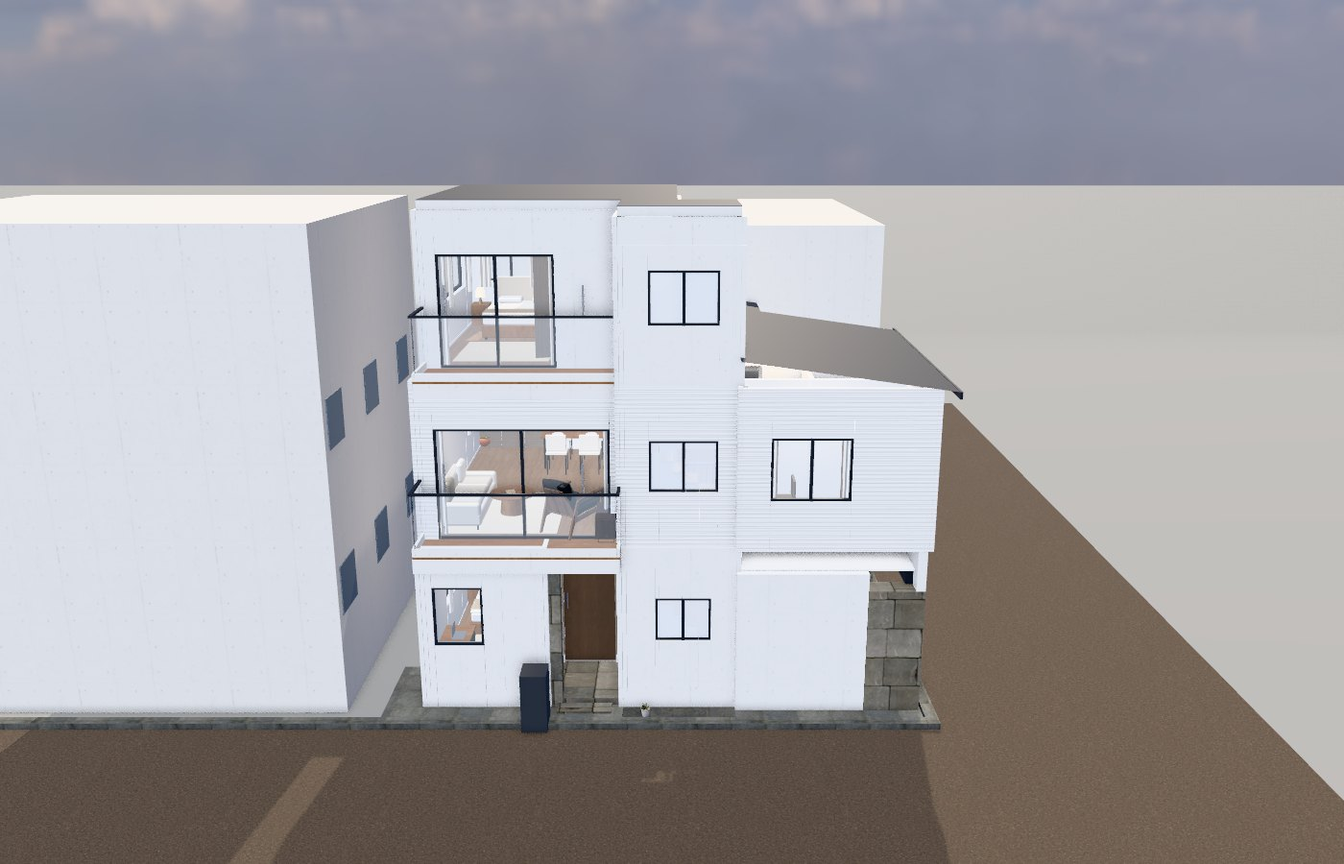
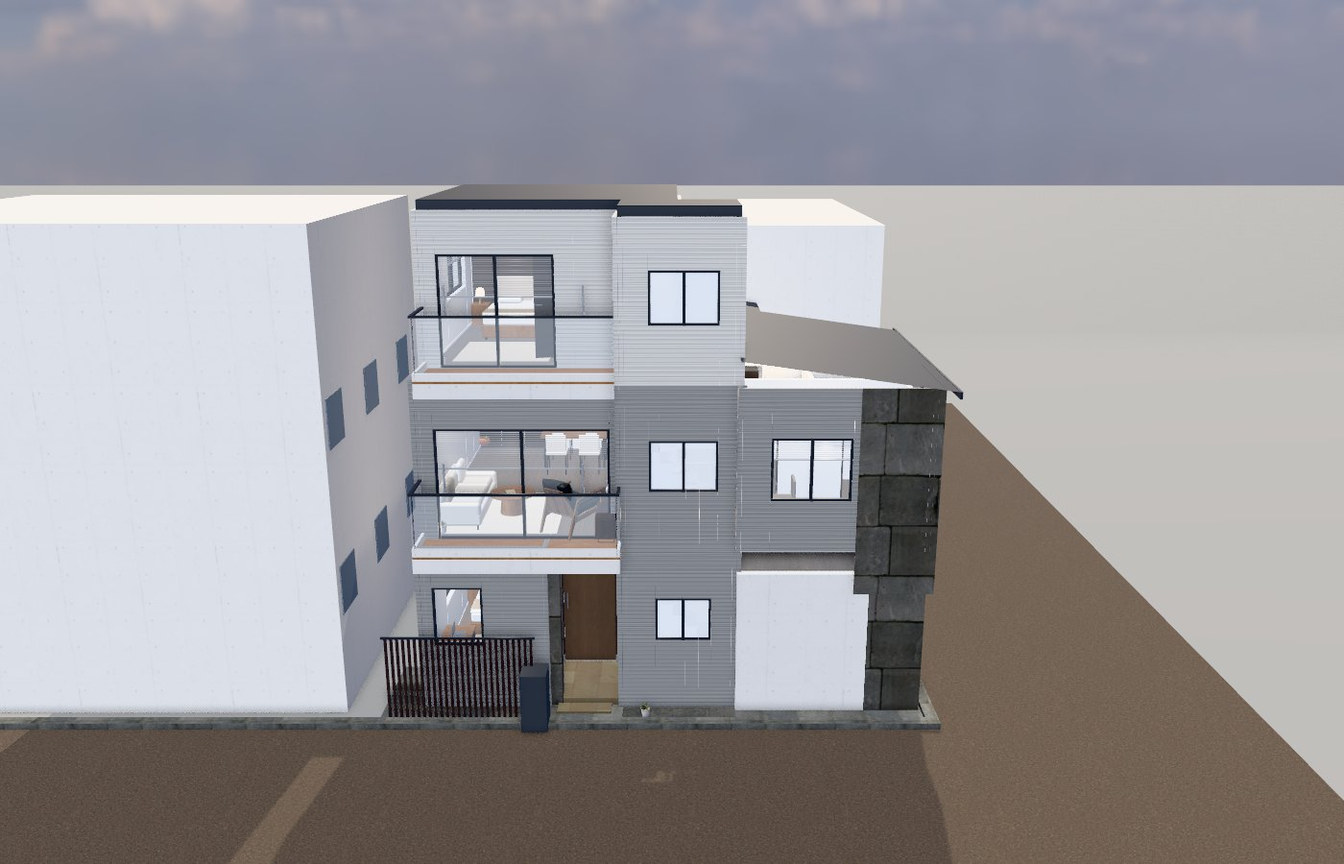
TYPE06: apply the model-home finishes
Exterior: mid-grey siding on 1F/2F, light grey on 3F, dark stone-tile
corner, timber-look louvre fences, dark roofs and garage soffit.
Interior: grey oak floor, dark wood doors and stair treads, dark kitchen
with black stone tops and dark tile backsplash, stone/relief/wood accent
walls, cove lighting in the LDK and master bedroom, brass globe pendant,
venetian blinds, dark two-bowl vanity with LED mirror, black bathtub.
TYPE06 keeps its own materials.js so TYPE02 is unchanged.

Claude-Session: https://claude.ai/code/session_013hXjAhjmHm2sScPaJVFegz

Changed region(s): [[0.2764, 0.2178, 0.7064, 0.84]]

diff --git a/type06/src/materials.js b/type06/src/materials.js
@@ -1,0 +1,126 @@
+// Material library. Geometry carries UVs in metres (see geo.js), so every
+// texture repeat equals 1 / real-world size of the scanned sample.
+import * as THREE from 'three';
+
+const LIB = 'assets/lib/';
+let manifest = null;
+const loader = new THREE.TextureLoader();
+const cache = new Map();
+let anisotropy = 4;
+let onProgress = () => {};
+let pending = 0, done = 0;
+
+export async function loadManifest() {
+  try {
+    const r = await fetch(LIB + 'manifest.json', { cache: 'no-cache' });
+    if (r.ok) manifest = await r.json();
+  } catch { manifest = null; }
+  return manifest;
+}
+export const getManifest = () => manifest;
+export function setAnisotropy(a) { anisotropy = a; }
+export function trackProgress(fn) { onProgress = fn; }
+
+function tex(id, map, srgb) {
+  const entry = manifest?.textures?.[id];
+  const file = entry?.maps?.[map]?.file;
+  if (!file) return null;
+  const key = file;
+  if (cache.has(key)) return cache.get(key);
+  pending++; onProgress(done, pending);
+  const t = loader.load(LIB + file, () => { done++; onProgress(done, pending); }, undefined, () => { done++; onProgress(done, pending); });
+  t.wrapS = t.wrapT = THREE.RepeatWrapping;
+  t.anisotropy = anisotropy;
+  t.colorSpace = srgb ? THREE.SRGBColorSpace : THREE.NoColorSpace;
+  const size = entry.size || [2, 2];
+  t.repeat.set(1 / size[0], 1 / size[1]);
+  cache.set(key, t);
+  return t;
+}
+
+function textured(id, { color = 0xffffff, diff = true, normalScale = 1, roughness = 1, metalness = 0, envMapIntensity = 1, rot = 0, scale = 1, ...rest } = {}) {
+  const m = new THREE.MeshStandardMaterial({ color, roughness, metalness, envMapIntensity, ...rest });
+  const d = diff ? tex(id, 'diff', true) : null;
+  const n = tex(id, 'nor', false);
+  const a = tex(id, 'arm', false);
+  const adjust = t => { if (!t) return t; if (rot || scale !== 1) { t = t.clone(); t.rotation = rot; t.repeat.multiplyScalar(1 / scale); t.needsUpdate = true; } return t; };
+  if (d) m.map = adjust(d);
+  if (n) { m.normalMap = adjust(n); m.normalScale.set(normalScale, normalScale); }
+  if (a) { const aa = adjust(a); m.roughnessMap = aa; m.aoMap = aa; m.aoMapIntensity = 0.6; }
+  m.name = id;
+  return m;
+}
+
+const plain = (color, roughness = 0.6, metalness = 0, extra = {}) => new THREE.MeshStandardMaterial({ color, roughness, metalness, ...extra });
+
+let M = null;
+export function materials() {
+  if (M) return M;
+  M = {
+    floorWood: textured('grey_oak_veneer_02', { color: 0xd9d6d1, roughness: 0.6, normalScale: 0.5, scale: 1.6 }), // grey oak wide planks
+    wall: textured('beige_wall_001', { diff: false, color: 0xecebe7, roughness: 1, normalScale: 0.35, scale: 0.6 }),
+    ceiling: textured('beige_wall_001', { diff: false, color: 0xf5f3ef, roughness: 1, normalScale: 0.25 }),
+    tileGenkan: textured('marble_01', { color: 0xaeafb0, roughness: 0.28, normalScale: 0.25, scale: 1.3 }), // large grey marble-look tile
+    tileBath: textured('anti_skid_tiles', { color: 0xe6e4e0, normalScale: 0.6, scale: 0.5 }),
+    bathPanel: textured('marble_01', { color: 0xa9a6a2, roughness: 0.35, normalScale: 0.2, scale: 1.4 }), // grey stone panel
+    kitchenPanel: textured('long_white_tiles', { color: 0xe9e8e5, roughness: 0.5, normalScale: 0.3, scale: 0.7 }),
+    cushionFloor: textured('marble_01', { color: 0xe9e6e1, roughness: 0.55, normalScale: 0.2, scale: 1.4 }),
+    marble: textured('marble_01', { roughness: 0.35, normalScale: 0.3 }),
+    counterDark: textured('marble_01', { color: 0x2a2b2d, roughness: 0.22, normalScale: 0.15, scale: 0.8 }), // black stone
+    oak: textured('oak_veneer_01', { color: 0xead9c6, roughness: 0.75, normalScale: 0.5 }),
+    walnut: textured('american_walnut_veneer', { roughness: 0.7, normalScale: 0.5 }),
+    door: textured('american_walnut_veneer', { color: 0x8f7764, roughness: 0.55, normalScale: 0.4, rot: Math.PI / 2 }), // dark wood doors
+    doorV: textured('american_walnut_veneer', { color: 0x8f7764, roughness: 0.55, normalScale: 0.4 }),
+    entryDoor: textured('american_walnut_veneer', { color: 0xc8a888, roughness: 0.6, normalScale: 0.6, rot: Math.PI / 2 }),
+    fabric: textured('denim_fabric_05', { diff: false, color: 0xd9d3c9, roughness: 1, normalScale: 0.7, scale: 1.6 }),
+    fabricDark: textured('denim_fabric_05', { diff: false, color: 0x8d877d, roughness: 1, normalScale: 0.7, scale: 1.6 }),
+    bedding: textured('cotton_jersey', { diff: false, color: 0xf3f1ec, roughness: 1, normalScale: 0.5, scale: 2 }),
+    beddingAccent: textured('cotton_jersey', { diff: false, color: 0xb9ab97, roughness: 1, normalScale: 0.5, scale: 2 }),
+    leather: textured('leather_white', { diff: false, color: 0xe9e4dc, roughness: 0.55, normalScale: 0.5 }),
+    rug: textured('knitted_fleece', { diff: false, color: 0xd8d0c3, roughness: 1, normalScale: 1.0, scale: 2 }),
+    extWhite: textured('concrete_wall_008', { diff: false, color: 0xd6d4cf, roughness: 0.95, normalScale: 0.5 }),
+    extLight: textured('painted_metal_shutter', { diff: false, color: 0xcac7c1, roughness: 0.7, normalScale: 0.5, scale: 1.2 }), // light grey siding (3F)
+    extStone: textured('large_grey_tiles', { color: 0xa3a5a7, normalScale: 1.2, scale: 0.9 }), // dark stone-tile accent
+    extSiding: textured('painted_metal_shutter', { diff: false, color: 0x8e8d8a, roughness: 0.7, normalScale: 0.6, scale: 1.2 }), // mid grey siding
+    paving: textured('large_floor_tiles_02', { color: 0xdedbd5, normalScale: 0.7, scale: 0.6 }),
+    asphalt: textured('asphalt_floor', { color: 0x9a9894, normalScale: 0.8 }),
+    // untextured
+    white: plain(0xf4f3f0, 0.5),
+    whiteGloss: plain(0xf7f7f5, 0.18),
+    porcelain: plain(0xfbfbfa, 0.12, 0, { envMapIntensity: 1.2 }),
+    greige: plain(0xd9d3ca, 0.6),
+    darkGrey: plain(0x3b3d40, 0.45),
+    kitchenFront: textured('grey_oak_veneer_02', { color: 0x5a5551, roughness: 0.5, normalScale: 0.3 }), // dark woodgrain fronts
+    backsplash: textured('long_white_tiles', { color: 0x3d4043, roughness: 0.18, normalScale: 0.5, scale: 0.45, rot: Math.PI / 2 }), // dark glossy vertical tile
+    stoneDark: textured('marble_01', { color: 0x5b5955, roughness: 0.3, normalScale: 0.3, scale: 0.9 }), // dark stone accent wall
+    tile3D: textured('long_white_tiles', { color: 0xf1f0ec, roughness: 0.5, normalScale: 1.4, scale: 0.6 }), // white relief tile accent
+    woodPanel: textured('american_walnut_veneer', { color: 0xb69a82, roughness: 0.6, normalScale: 0.5, rot: Math.PI / 2 }),
+    fenceWood: textured('american_walnut_veneer', { color: 0x7a5c47, roughness: 0.55, normalScale: 0.4 }),
+    blind: plain(0x9c9d9e, 0.55, 0.2),
+    blackGloss: plain(0x18191a, 0.12, 0.1, { envMapIntensity: 1.2 }),
+    globe: new THREE.MeshStandardMaterial({ color: 0xfffaf0, emissive: 0xfff2dc, emissiveIntensity: 1.3, roughness: 0.3 }),
+    cove: new THREE.MeshStandardMaterial({ color: 0xfff6e6, emissive: 0xffe9c4, emissiveIntensity: 2.2, roughness: 0.6 }),
+    black: plain(0x1d1e20, 0.4),
+    frame: plain(0x3e3f41, 0.38, 0.6),
+    frameLight: plain(0xc7c6c2, 0.35, 0.7),
+    steel: plain(0xc9cbcd, 0.28, 1.0),
+    brass: plain(0xb39465, 0.3, 1.0),
+    skirting: plain(0x6f665c, 0.5),
+    cap: plain(0x30343a, 0.8),
+    curtain: Object.assign(textured('cotton_jersey', { diff: false, color: 0xe9e4da, roughness: 1, normalScale: 0.4, scale: 2 }), { side: THREE.DoubleSide }),
+    stair: textured('american_walnut_veneer', { color: 0x9a7f69, roughness: 0.6, normalScale: 0.5 }), // dark wood treads
+    glass: new THREE.MeshPhysicalMaterial({ color: 0xdfe8ec, roughness: 0.04, metalness: 0, transmission: 0, transparent: true, opacity: 0.16, envMapIntensity: 1.4, depthWrite: false }),
+    frosted: new THREE.MeshPhysicalMaterial({ color: 0xf2f4f4, roughness: 0.4, transparent: true, opacity: 0.85 }),
+    mirror: new THREE.MeshStandardMaterial({ color: 0xd8dde0, roughness: 0.02, metalness: 1.0, envMapIntensity: 1.6 }),
+    tv: plain(0x0e0f10, 0.15, 0.2),
+    lampShade: new THREE.MeshStandardMaterial({ color: 0xfff8ec, emissive: 0xfff1d6, emissiveIntensity: 1.6, roughness: 0.6 }),
+    downlight: new THREE.MeshStandardMaterial({ color: 0xffffff, emissive: 0xfff3dd, emissiveIntensity: 3.0 }),
+    plantPot: plain(0xe8e4dd, 0.8),
+    neighbour: textured('concrete_wall_008', { diff: false, color: 0xe2dfd9, roughness: 0.95, normalScale: 0.4 }),
+    neighbourWin: plain(0x8e9ba2, 0.08, 0.4, { envMapIntensity: 1.3 }),
+    ground: textured('large_floor_tiles_02', { color: 0xc9c5be, normalScale: 0.5 }),
+    farGround: plain(0x8f8e8a, 0.95),
+    hedge: plain(0x5d7350, 0.9),
+  };
+  return M;
+}

diff --git a/type06/src/build.js b/type06/src/build.js
@@ -196,26 +196,16 @@ function buildOpening(B, floor, w, f, o) {
   for (const [geo, mt] of [[leaf, mat], [handle, 'steel'], [handle2, 'steel']]) { geo.applyMatrix4(m); B.add(`${floor.id}:furn`, mt, geo); }
 }
 
-// gathered drapes on both sides of a window (room side)
+// horizontal venetian blind on the room side, raised to the top third
+// (slats stop 1 cm inside the reveal; they never share a plane with the wall)
 function addCurtains(B, floor, f, o, sg, t) {
-  const base = floor.level;
-  const face = -sg * (t / 2) - sg * 0.09; // 9cm into the room
-  const top = base + Math.min(o.head + 0.1, (floor.ceiling || 2.4) - 0.02);
-  const bottom = o.sill < 0.05 ? base + 0.01 : base + o.sill - 0.12;
-  const h = top - bottom, pw = 0.24;
-  for (const [s0, dir] of [[o.from - 0.12, 1], [o.to + 0.12 - pw, -1]]) {
-    const g = new THREE.PlaneGeometry(pw, h, 16, 1);
-    const p = g.attributes.position;
-    for (let i = 0; i < p.count; i++) p.setZ(i, Math.sin((p.getX(i) + pw / 2) / pw * Math.PI * 5) * 0.035);
-    g.computeVertexNormals(); metricUV(g);
-    g.translate(pw / 2, h / 2, 0);
-    if (f.vertical) { g.rotateY(Math.PI / 2); g.translate(f.c + face, bottom, s0 + pw); }
-    else g.translate(s0, bottom, f.c + face);
-    B.add(`${floor.id}:furn`, 'curtain', g);
-    void dir;
-  }
-  // rail
-  wallBox(B, `${floor.id}:furn`, 'white', f, o.from - 0.15, o.to + 0.15, Math.min(face, face + sg * 0.04) - 0.02, Math.max(face, face + sg * 0.04) + 0.02, top, top + 0.04);
+  const base = floor.level, g = `${floor.id}:furn`;
+  const face = -sg * (t / 2) - sg * 0.035;
+  const top = base + o.head - 0.01, bottom = base + o.sill + (o.head - o.sill) * 0.62;
+  const o0 = Math.min(face, face - sg * 0.025), o1 = Math.max(face, face - sg * 0.025);
+  wallBox(B, g, 'blind', f, o.from - 0.02, o.to + 0.02, o0 - 0.006, o1 + 0.006, top - 0.045, top); // head rail
+  for (let y = top - 0.07; y > bottom; y -= 0.035) wallBox(B, g, 'blind', f, o.from - 0.015, o.to + 0.015, o0, o1, y - 0.004, y);
+  wallBox(B, g, 'blind', f, o.from - 0.015, o.to + 0.015, o0 - 0.004, o1 + 0.004, bottom - 0.02, bottom); // bottom rail
 }
 
 // ---- floors, ceilings ----------------------------------------------------
@@ -309,10 +299,10 @@ function buildStairs(B, floor, s) {
 
 // ---- exterior -------------------------------------------------------------
 function facadeMaterial(floor, w) {
-  // road sides (north 6 m / east 4 m): metal siding on 2F and the 3F front
-  if (floor.id === '2F' && (w.outside === 'N' || w.outside === 'E')) return 'extSiding';
-  if (floor.id === '3F' && w.outside === 'N') return 'extSiding';
-  return 'extWhite';
+  // model-home finish: mid-grey siding on the 1F/2F body, light grey on 3F
+  // (the dark stone-tile corner is added as cladding in buildExterior)
+  void w;
+  return floor.id === '3F' ? 'extLight' : 'extSiding';
 }
 
 function slopedRoof(x1, x2, zLo, zHi, yLo, yHi) {
@@ -347,8 +337,8 @@ function buildExterior(B, mats, models) {
 
   // ---- built-in garage under 2F: soffit, north beam with shutter box, piers
   const soffitY = L2 - SLAB;
-  B.box('2F:ext', 'white', X(0.9), soffitY - 0.004, Z(0) + 0.16, X(6.4) - 0.16, soffitY + 0.02, gz2 - 0.081);
-  B.box('2F:ext', 'white', X(0.4), soffitY - 0.004, Z(2.6), X(0.9) - 0.001, soffitY + 0.02, gz2 - 0.081);
+  B.box('2F:ext', 'walnut', X(0.9), soffitY - 0.004, Z(0) + 0.16, X(6.4) - 0.16, soffitY + 0.02, gz2 - 0.081);
+  B.box('2F:ext', 'walnut', X(0.4), soffitY - 0.004, Z(2.6), X(0.9) - 0.001, soffitY + 0.02, gz2 - 0.081);
   B.box('2F:ext', 'extWhite', X(0.9) - P, soffitY - 0.32, Z(0) - P, X(6.4) + P, L2 + 0.002, Z(0) + 0.16); // beam / 2F floor edge
   B.box('2F:ext', 'frame', X(1.4), soffitY - 0.3, Z(0) + 0.16, X(6.1), soffitY - 0.002, Z(0) + 0.3);       // shutter box
   B.box(g, 'extStone', X(5.95), 0.05, Z(0) - P, X(6.4) + P, soffitY - 0.32, Z(1.0));                 // NE stone pier
@@ -385,15 +375,29 @@ function buildExterior(B, mats, models) {
   const shape = new THREE.Shape(pts.map(([x, z]) => new THREE.Vector2(x, -z)));
   const roof = new THREE.ExtrudeGeometry(shape, { depth: 0.16, bevelEnabled: false });
   roof.rotateX(-Math.PI / 2); roof.translate(0, EXTERIOR.roofTop, 0); metricUV(roof);
-  B.add('roof', 'extWhite', roof);
+  B.add('roof', 'darkGrey', roof);
   const cap = new THREE.ExtrudeGeometry(shape, { depth: 0.012, bevelEnabled: false });
   cap.rotateX(-Math.PI / 2); cap.translate(0, EXTERIOR.roofTop + 0.16, 0); metricUV(cap);
-  B.add('roof', 'darkGrey', cap);
+  B.add('roof', 'black', cap);
 
+  // ---- dark stone-tile corner on the road corner (2F north + east faces), 2.5 cm proud of the skin
+  const sk = 0.084; // skin outer face offset from the wall centre line
+  B.box('2F:ext', 'extStone', X(4.55), soffitY - 0.32, Z(0) - sk - 0.026, X(6.4) + sk + 0.026, L3 + 0.004, Z(0) - sk - 0.004);
+  B.box('2F:ext', 'extStone', X(6.4) + sk + 0.004, soffitY - 0.32, Z(0) - sk - 0.004, X(6.4) + sk + 0.026, L3 + 0.004, Z(1.3));
+  // ---- dark timber-look vertical louvre fences (east of the bedroom, west side)
+  const louvre = (x1, z1, x2, z2, h) => {
+    const alongX = Math.abs(x2 - x1) > Math.abs(z2 - z1), len = alongX ? x2 - x1 : z2 - z1;
+    for (let s = 0.02; s < len - 0.02; s += 0.1) {
+      if (alongX) B.box('site', 'fenceWood', x1 + s, 0.05, z1 - 0.02, x1 + s + 0.045, h, z1 + 0.02);
+      else B.box('site', 'fenceWood', x1 - 0.02, 0.05, z1 + s, x1 + 0.02, h, z1 + s + 0.045);
+    }
+    B.box('site', 'frame', Math.min(x1, x2) - 0.025, h, Math.min(z1, z2) - 0.025, Math.max(x1, x2) + 0.025, h + 0.03, Math.max(z1, z2) + 0.025);
+  };
+  louvre(X(6.75), Z(6.95), X(6.75), Z(9.0) + 0.6, 1.6);
+  louvre(X(-0.85), Z(0.4), X(-0.85), Z(7.2), 1.6);
   // ---- gate, planting
   placeModel(B, 'site', models, 'potted_plant_04', px2 + 0.4, 0.05, pz1 - 0.4, 0, 1.0);
   placeModel(B, 'site', models, 'potted_plant_02', X(0.2), 0.05, Z(0.25), 0, 1.0);
-  B.box('site', 'walnut', X(-0.85), 0.05, Z(2.4), X(-0.8), 1.8, Z(7.0)); // timber screen to the west neighbour
 
   // ---- neighbours (part of the 6-house development): west and south blocks
   for (const [x1, z1, x2, z2, h] of [[-9.5, Z(0) - 0.4, X(-0.9) - 0.5, Z(9.0) + 0.6, 7.9], [X(-0.9), Z(9.0) + 1.4, roadE0 - 0.6, Z(9.0) + 9.5, 8.6]]) {

diff --git a/type06/src/plan.js b/type06/src/plan.js
@@ -100,13 +100,21 @@ function floorDef(id, label, ceiling, roomsRaw, openingsRaw, extra) {
   return { id, label, level: LEVEL[id], ceiling, footprint, walls, rooms, ...extra };
 }
 
+
+// accent finish on one face of a wall (raw wall line c; side +1 = the +x/+z face)
+const panel = (axis, c, side, a, b, mat, t, y0 = 0, y1 = 2.3) => {
+  const f0 = side * t / 2 + (side > 0 ? 0.001 : -0.013), f1 = f0 + 0.012;
+  return { type: 'panel', mat, y0, y1, rect: axis === 'x' ? [X(c) + f0, Z(a), X(c) + f1, Z(b)] : [X(a), Z(c) + f0, X(b), Z(c) + f1] };
+};
+const cove = (x1, z1, x2, z2, h, inset = [0.08, 0.05, 0.08, 0.08]) => ({ type: 'cove', h, rect: [X(x1) + inset[0], Z(z1) + inset[1], X(x2) - inset[2], Z(z2) - inset[3]] });
+
 // ---------------------------------------------------------------- 1F
 const S = R(...STAIR);
 const first = floorDef('1F', '1階', 2.3, [
   room('ガレージ', [[0.4, 0.3, 6.2, 3.35]], { kind: 'open' }),
-  room('トイレ', [[0, 3.35, 1.9, 4.3]], { floor: 'cushionFloor' }),
+  room('トイレ', [[0, 3.35, 1.9, 4.3]], { floor: 'tileGenkan' }),
   room('ホール', [[1.9, 4.4, 2.9, 5.3], [1.9, 3.35, 4.7, 4.4], [1.9, 5.3, 3.4, 6.8]]),
-  room('洗面室', [[0, 4.3, 1.9, 7.4]], { floor: 'cushionFloor' }),
+  room('洗面室', [[0, 4.3, 1.9, 7.4]], { floor: 'tileGenkan' }),
   room('浴室', [[-0.45, 7.4, 1.9, 9.0]], { floor: 'tileBath', wall: 'bathPanel' }),
   room('SIC', [[2.9, 4.4, 4.7, 5.3]], { floor: 'tileGenkan' }),
   room('玄関', [[3.4, 5.3, 4.7, 6.8]], { floor: 'tileGenkan', drop: 0.15 }),
@@ -135,7 +143,10 @@ const first = floorDef('1F', '1階', 2.3, [
     { type: 'vanityW', rect: R(0.0, 4.5, 0.6, 5.7), mirror: true },
     { type: 'washer', rect: R(0.05, 6.55, 0.7, 7.3) },
     { type: 'shelf', rect: R(1.4, 6.9, 1.85, 7.35), h: 1.8 },
-    { type: 'bathtub', rect: R(-0.4, 7.45, 0.45, 9.0) },
+    { type: 'bathtub', rect: R(-0.4, 7.45, 0.45, 9.0), color: 'black' },
+    panel('z', 6.8, -1, 3.45, 4.65, 'tileGenkan', 0.10, -0.15, 2.3),
+    panel('x', 0, 1, 3.4, 4.25, 'stoneDark', 0.16),
+    panel('x', 1.9, 1, 7.3, 8.6, 'tile3D', 0.10),
     { type: 'shoeCabinet', rect: R(2.95, 4.45, 4.65, 4.85), h: 2.0, facing: 'S' },
     { type: 'closet', rect: R(5.25, 6.85, 6.15, 7.55), h: 2.3, facing: 'W', hidden: true },
     { type: 'step', rect: R(3.36, 5.3, 3.44, 6.8) },
@@ -190,6 +201,10 @@ const second = floorDef('2F', '2階', 2.4, [
     { rect: R(4.7, 4.7, 5.6, 5.4), dir: 'west', from: 0.19 * 9, to: LEVEL['3F'] - LEVEL['2F'], steps: 6 },
   ],
   built: [
+    panel('z', 5.4, 1, 4.75, 5.75, 'stoneDark', 0.10, 0, 2.35),
+    panel('z', 2.6, 1, 0.9, 2.3, 'backsplash', 0.10, 0.88, 1.5),
+    panel('z', 0, 1, 5.3, 6.3, 'tile3D', 0.16, 0, 1.5),
+    cove(0, 5.4, 5.8, 9.0, 2.35, [0.08, 0.05, 0.05, 0.08]),
     { type: 'peninsula', rect: R(0.1, 4.6, 2.8, 5.3), sink: [X(2.15), Z(4.95)], cooktop: [X(0.7), Z(4.95)] },
     { type: 'fridge2', rect: R(0.08, 2.72, 0.75, 3.3), h: 1.82 },
     { type: 'backCounter', rect: R(0.8, 2.72, 2.3, 3.3) },
@@ -213,7 +228,7 @@ const second = floorDef('2F', '2階', 2.4, [
     { type: 'diningChair', at: [X(0.75), Z(6.95)], rot: Math.PI / 2 },
     { type: 'diningChair', at: [X(1.85), Z(6.25)], rot: -Math.PI / 2 },
     { type: 'diningChair', at: [X(1.85), Z(6.95)], rot: -Math.PI / 2 },
-    { type: 'pendant', at: [X(1.3), Z(6.6)], model: 'modern_ceiling_lamp_01' },
+    { type: 'globeCluster', at: [X(1.3), Z(6.6)], rot: Math.PI / 2, w: 1.0 },
     { type: 'stool', at: [X(2.45), Z(5.6)] },
     { type: 'model', id: 'potted_plant_02', at: [X(-0.15), Z(8.75)], scale: 0.75 },
     { type: 'bed', size: 'single', at: [X(5.8), Z(1.1)], rot: 0 },
@@ -237,14 +252,14 @@ const second = floorDef('2F', '2階', 2.4, [
 // ---------------------------------------------------------------- 3F
 const third = floorDef('3F', '3階', 2.3, [
   room('WIC', [[0.9, 4.4, 2.9, 6.3]], { ceiling: 2.3 }),
-  room('トイレ', [[2.9, 4.4, 3.8, 6.3]], { floor: 'cushionFloor' }),
+  room('トイレ', [[2.9, 4.4, 3.8, 6.3]], { floor: 'tileGenkan' }),
   room('ホール', [[3.8, 4.4, 4.7, 6.3], [4.7, 5.4, 4.8, 6.3]]),
   room('階段', [STAIR], { kind: 'stair', hide: true }),
   room('主寝室', [[0, 6.3, 4.8, 9.0]], { jo: 7.6, ceiling: 2.3 }),
   room('バルコニー', [[4.8, 5.4, 5.9, 9.0]], { kind: 'balcony' }),
 ], [
   open('x', 4.7, 4.4, 5.4), door('z', 6.3, 3.85, 4.6, { swing: 1 }), door('z', 6.3, 1.4, 2.2), door('x', 3.8, 5.4, 6.1, { open: 0 }),
-  slide('x', 4.8, 6.6, 8.7), win('z', 9.0, 0.8, 2.9, 0.9, 2.0), win('x', 0, 7.5, 8.6, 0.9, 2.0), win('x', 6.2, 3.7, 4.9, 1.0, 1.9, { frosted: true }),
+  slide('x', 4.8, 6.6, 8.7), win('z', 9.0, 0.8, 2.9, 0.9, 2.0), win('x', 6.2, 3.7, 4.9, 1.0, 1.9, { frosted: true }),
   win('z', 4.4, 3.0, 3.6, 1.5, 1.9, { frosted: true }),
 ], {
   ceilings: [
@@ -256,6 +271,9 @@ const third = floorDef('3F', '3階', 2.3, [
   stairs: [],
   built: [
     { type: 'toilet', at: [X(3.35), Z(4.85)], facing: 'S' },
+    panel('z', 4.4, 1, 2.95, 3.75, 'stoneDark', 0.16, 0, 1.42),
+    panel('x', 0, 1, 6.4, 8.9, 'woodPanel', 0.16),
+    cove(0, 6.3, 4.8, 9.0, 2.3, [0.08, 0.05, 0.08, 0.08]),
     { type: 'wicRail', rect: R(0.95, 4.45, 2.85, 6.25) },
     { type: 'stairRail', rect: R(4.66, 5.4, 6.2, 5.44) },
     { type: 'aircon', at: [X(0.0) + 0.2, Z(7.0)], facing: 'E', top: 2.27 },

diff --git a/type06/src/furniture.js b/type06/src/furniture.js
@@ -120,7 +120,7 @@ export function addBuiltIn(B, floor, b, blocked, models) {
       box('black', x1 + 0.03, L, z1 + 0.04, x2 - 0.03, L + 0.08, z2 - 0.06);
       box('counterDark', x1 - 0.02, L + 0.85, z1 - 0.02, x2 + 0.02, L + 0.88, z2 + 0.02);
       for (const yy of [0.33, 0.6]) box('black', x1 + 0.01, L + yy, z1 - 0.002, x2 - 0.01, L + yy + 0.006, z1);
-      box('oak', x1, L + 0.08, z2 - 0.02, x2, L + 0.849, z2); // LDK-side panel
+      box('stoneDark', x1, L + 0.08, z2 - 0.02, x2, L + 0.849, z2); // LDK-side dark stone panel
       const [sx, sz] = b.sink;
       box('steel', sx - 0.38, L + 0.70, sz - 0.2, sx + 0.38, L + 0.881, sz + 0.2);
       box('darkGrey', sx - 0.36, L + 0.72, sz - 0.18, sx + 0.36, L + 0.882, sz + 0.18);
@@ -154,16 +154,30 @@ export function addBuiltIn(B, floor, b, blocked, models) {
       blocked.push([x1, z1, x2, z2 + 0.05]);
       return;
     }
-    case 'vanityW': { // two-bowl vanity against a west wall
+    case 'vanityW': { // two-bowl vanity against a west wall (dark wood, black stone top)
       const [x1, z1, x2, z2] = r;
-      box('white', x1, L + 0.12, z1, x2, L + 0.8, z2);
-      box('marble', x1, L + 0.8, z1, x2 + 0.02, L + 0.83, z2);
+      box('kitchenFront', x1, L + 0.12, z1, x2, L + 0.8, z2);
+      box('counterDark', x1, L + 0.8, z1, x2 + 0.02, L + 0.83, z2);
       for (const bz of [z1 + (z2 - z1) * 0.27, z1 + (z2 - z1) * 0.73]) {
         const bowl = cylinder(0.19, 0.16, 0.12, 32); bowl.scale(1.2, 1, 1); bowl.translate((x1 + x2) / 2 + 0.03, L + 0.75, bz); B.add(g, 'porcelain', bowl);
         const tap = cylinder(0.014, 0.016, 0.22); tap.translate(x1 + 0.08, L + 0.83, bz); B.add(g, 'steel', tap);
       }
-      if (b.mirror) { box('white', x1, L + 1.05, z1, x1 + 0.13, L + 1.95, z2); box('mirror', x1 + 0.128, L + 1.1, z1 + 0.02, x1 + 0.132, L + 1.9, z2 - 0.02); box('lampShade', x1 + 0.05, L + 1.95, z1, x1 + 0.13, L + 1.98, z2); }
+      if (b.mirror) { box('mirror', x1 + 0.09, L + 1.0, z1 + 0.02, x1 + 0.1, L + 2.0, z2 - 0.02); box('cove', x1 + 0.09, L + 1.0, z1 - 0.012, x1 + 0.104, L + 2.0, z1 + 0.018); box('cove', x1 + 0.09, L + 1.0, z2 - 0.018, x1 + 0.104, L + 2.0, z2 + 0.012); }
       blocked.push([x1, z1, x2 + 0.05, z2]);
+      return;
+    }
+    case 'panel': { // accent finish on a wall face: rect is the panel's own thin box
+      const [x1, z1, x2, z2] = r;
+      box(b.mat, x1, L + (b.y0 ?? 0), z1, x2, L + (b.y1 ?? 2.3), z2);
+      return;
+    }
+    case 'cove': { // indirect light line along the top of the walls of a room
+      // 3 mm clear of the wall faces so no strip face lies in a wall's plane
+      const [x1, z1, x2, z2] = [r[0] + 0.003, r[1] + 0.003, r[2] - 0.003, r[3] - 0.003], y = L + b.h - 0.006, d = 0.03;
+      box('cove', x1, y - 0.03, z1, x2, y, z1 + d);
+      box('cove', x1, y - 0.03, z2 - d, x2, y, z2);
+      box('cove', x1, y - 0.03, z1 + d, x1 + d, y, z2 - d);
+      box('cove', x2 - d, y - 0.03, z1 + d, x2, y, z2 - d);
       return;
     }
     case 'fridge': {
@@ -215,11 +229,12 @@ export function addBuiltIn(B, floor, b, blocked, models) {
     }
     case 'bathtub': {
       const [x1, z1, x2, z2] = r;
-      box('porcelain', x1, L, z1, x2, L + 0.55, z1 + 0.05);
-      box('porcelain', x1, L, z2 - 0.05, x2, L + 0.55, z2);
-      box('porcelain', x1, L, z1, x1 + 0.05, L + 0.55, z2);
-      box('porcelain', x2 - 0.05, L, z1, x2, L + 0.55, z2);
-      box('porcelain', x1 + 0.05, L, z1 + 0.05, x2 - 0.05, L + 0.12, z2 - 0.05);
+      const tm = b.color === 'black' ? 'blackGloss' : 'porcelain';
+      box(tm, x1, L, z1, x2, L + 0.55, z1 + 0.05);
+      box(tm, x1, L, z2 - 0.05, x2, L + 0.55, z2);
+      box(tm, x1, L, z1 + 0.05, x1 + 0.05, L + 0.55, z2 - 0.05);
+      box(tm, x2 - 0.05, L, z1 + 0.05, x2, L + 0.55, z2 - 0.05);
+      box(tm, x1 + 0.05, L, z1 + 0.05, x2 - 0.05, L + 0.12, z2 - 0.05);
       // wall panels of the unit bath + lower ceiling
       const room = floor.rooms.find(rm => rm.name === '浴室');
       if (room) {
@@ -419,6 +434,18 @@ export function addFurniture(B, floor, it, blocked, models) {
         const shade = cylinder(0.16, 0.16, 0.14, 32); shade.translate(x, cy - 0.85, z); B.add(g, 'lampShade', shade);
       }
       const cord = cylinder(0.004, 0.004, 0.6, 6); cord.translate(x, cy - 0.6, z); B.add(g, 'black', cord);
+      return;
+    }
+    case 'globeCluster': { // brass bar pendant with five opal globes
+      const top = L + (floor.ceilingAt ? floor.ceilingAt(x, z) : 2.35);
+      const w = it.w || 1.0, c = Math.cos(rot), sn = Math.sin(rot);
+      for (const dx of [-w / 2 + 0.04, w / 2 - 0.04]) B.box(g, 'brass', x + dx * c - 0.004, top - 0.55, z - dx * sn - 0.004, x + dx * c + 0.004, top, z - dx * sn + 0.004);
+      const bar = block(w, 0.025, 0.025, { base: false }); bar.rotateY(rot); bar.translate(x, top - 0.55, z); B.add(g, 'brass', bar);
+      [-0.4, -0.2, 0, 0.2, 0.4].forEach((k, i) => {
+        const dx = k * w, dy = i % 2 ? -0.12 : -0.05;
+        const s = new THREE.SphereGeometry(0.085, 24, 16); s.translate(x + dx * c, top - 0.55 + dy - 0.07, z - dx * sn); B.add(g, 'globe', s);
+        B.box(g, 'brass', x + dx * c - 0.005, top - 0.55 + dy, z - dx * sn - 0.005, x + dx * c + 0.005, top - 0.55, z - dx * sn + 0.005);
+      });
       return;
     }
     case 'model': {

diff --git a/type06/src/main.js b/type06/src/main.js
@@ -9,7 +9,7 @@ import { RoomEnvironment } from 'three/examples/jsm/environments/RoomEnvironment
 import { HDRLoader } from 'three/examples/jsm/loaders/HDRLoader.js';
 import { GLTFLoader } from 'three/examples/jsm/loaders/GLTFLoader.js';
 import { FLOORS, LEVEL, EXTERIOR, JO, roomArea } from './plan.js';
-import { materials, loadManifest, getManifest, setAnisotropy, trackProgress } from '../../src/materials.js';
+import { materials, loadManifest, getManifest, setAnisotropy, trackProgress } from './materials.js';
 import { buildHouse, inside, ceilingAt } from './build.js';
 
 const $ = id => document.getElementById(id);
